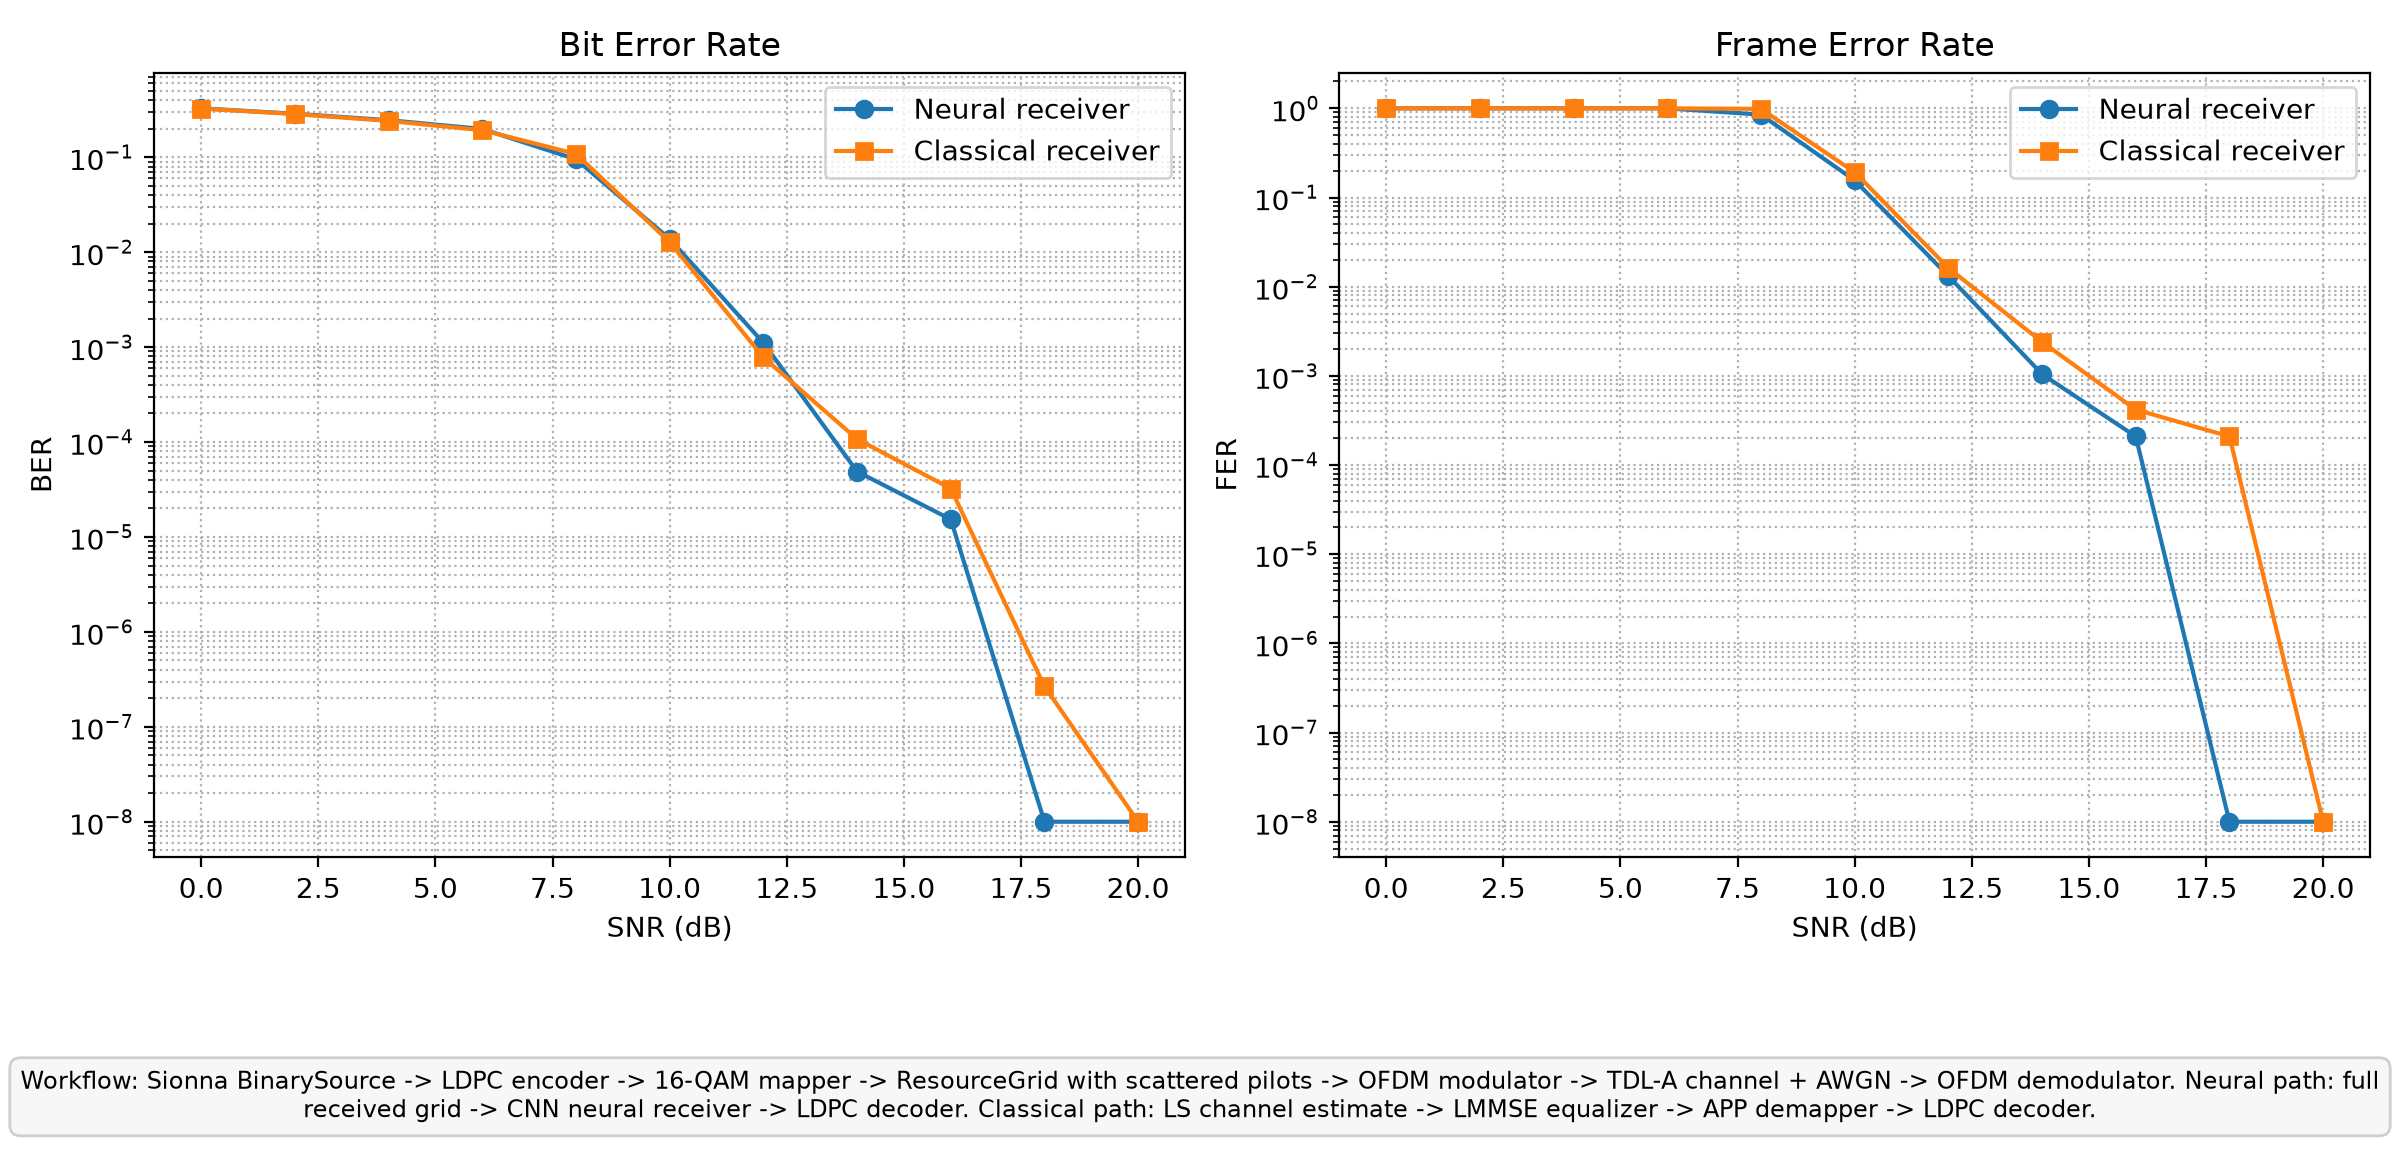
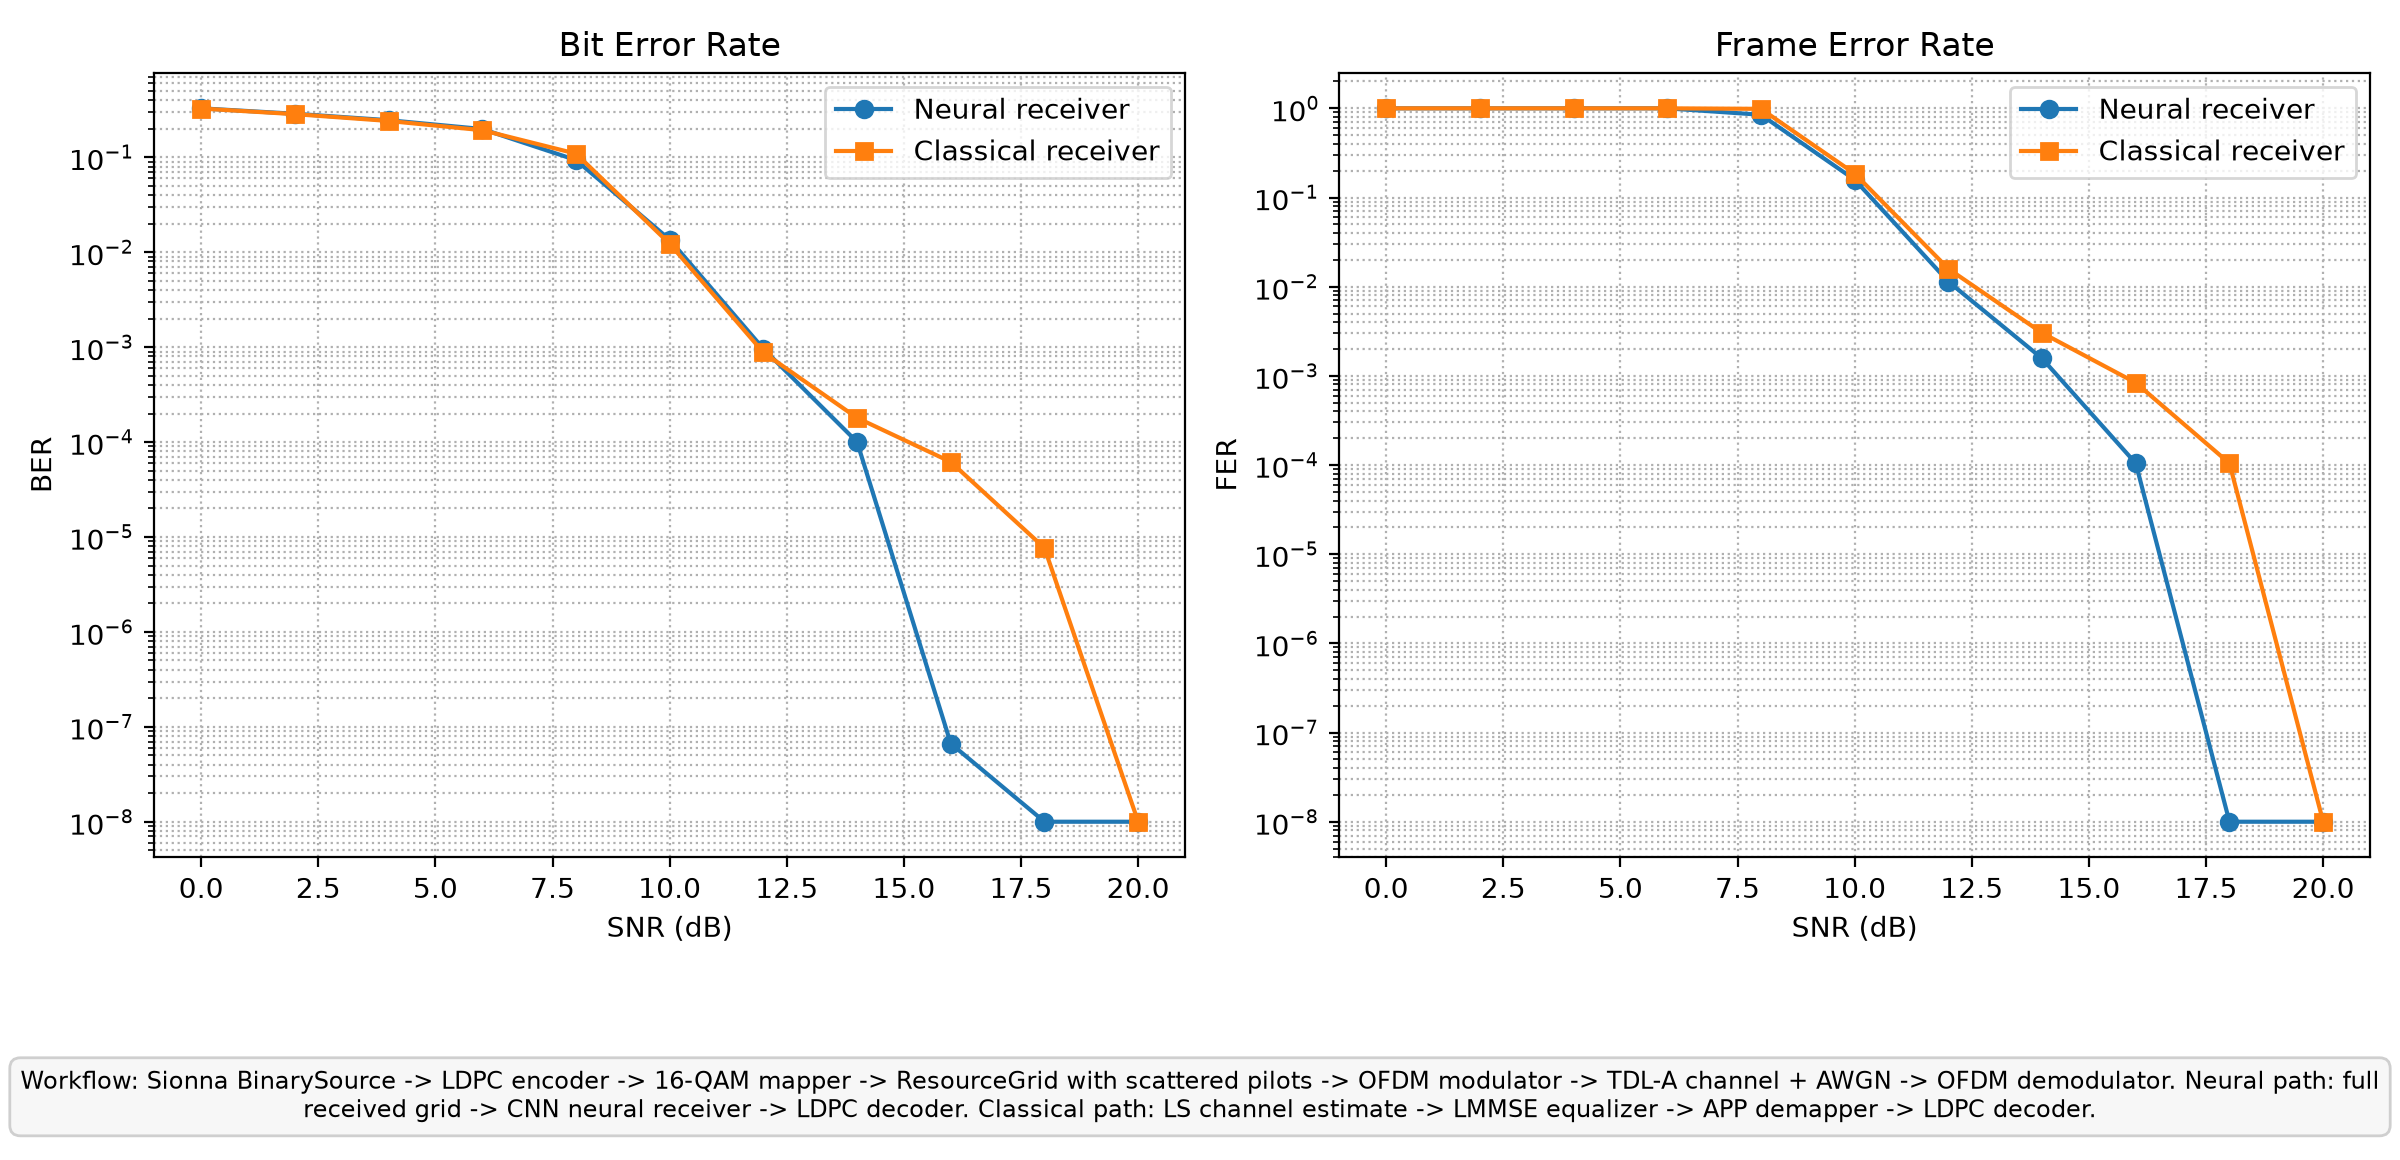
feat: implement multi-seed evaluation and export performance metrics to CSV

diff --git a/main_OFDM.py b/main_OFDM.py
@@ -19,9 +19,12 @@ from sionna.phy.ofdm import (
 )
 from chart_maker import plot_receiver_comparison
 from neural_receiver import NeuralReceiverTrainer
+import csv
 
-config.seed = 0
-num_eval_repeats = 3
+training_seed = 0
+evaluation_seeds = [1000, 1001, 1002]
+
+config.seed = training_seed
 train_model = False
 model_path = "full_grid_receiver.pt"
 
@@ -238,7 +241,6 @@ def main():
     )
 
     num_coded_bits_per_frame = system["num_coded_bits_per_frame"]
-    num_info_bits_per_frame = system["num_info_bits_per_frame"]
     
     total_frames = math.ceil(target_coded_bits / num_coded_bits_per_frame)
 
@@ -286,12 +288,16 @@ def main():
         classical_ber_sum = 0.0
         classical_fer_sum = 0.0
 
-        for _ in range(num_eval_repeats):
+        for evaluation_seed in evaluation_seeds:
+            config.seed = evaluation_seed
+
             neural_ber, neural_fer = trainer.evaluate_snr(
                 snr_db=snr_db,
                 total_frames=total_frames,
                 batch_size=batch_size,
             )
+
+            config.seed = evaluation_seed
 
             classical_ber, classical_fer = trainer.evaluate_classical_snr(
                 snr_db=snr_db,
@@ -304,10 +310,12 @@ def main():
             classical_ber_sum += classical_ber
             classical_fer_sum += classical_fer
 
-        neural_ber = neural_ber_sum / num_eval_repeats
-        neural_fer = neural_fer_sum / num_eval_repeats
-        classical_ber = classical_ber_sum / num_eval_repeats
-        classical_fer = classical_fer_sum / num_eval_repeats
+        num_evaluation_seeds = len(evaluation_seeds)
+
+        neural_ber = neural_ber_sum / num_evaluation_seeds
+        neural_fer = neural_fer_sum / num_evaluation_seeds
+        classical_ber = classical_ber_sum / num_evaluation_seeds
+        classical_fer = classical_fer_sum / num_evaluation_seeds
 
         neural_bers.append(neural_ber)
         neural_fers.append(neural_fer)
@@ -329,6 +337,50 @@ def main():
         classical_fers,
     )
     print("saved chart:", chart_path)
+
+    csv_path = "neural_vs_classical_receiver.csv"
+
+    with open(csv_path, "w", newline="") as csv_file:
+        writer = csv.writer(csv_file)
+
+        writer.writerow([
+            "training_seed",
+            "evaluation_seeds",
+            "target_coded_bits",
+            "batch_size",
+            "num_subcarriers",
+            "num_ofdm_symbols",
+            "bits_per_qam_symbol",
+            "code_rate",
+            "cp_len",
+            "snr_db",
+            "neural_ber",
+            "neural_fer",
+            "classical_ber",
+            "classical_fer",
+        ])
+
+        for row in zip(
+            snr_dbs,
+            neural_bers,
+            neural_fers,
+            classical_bers,
+            classical_fers,
+        ):
+            writer.writerow([
+                training_seed,
+                ";".join(str(seed) for seed in evaluation_seeds),
+                target_coded_bits,
+                batch_size,
+                num_subcarriers,
+                num_ofdm_symbols,
+                bits_per_qam_symbol,
+                code_rate,
+                cp_len,
+                *row,
+            ])
+
+    print("saved results:", csv_path)
 
 if __name__ == "__main__":
     main()
